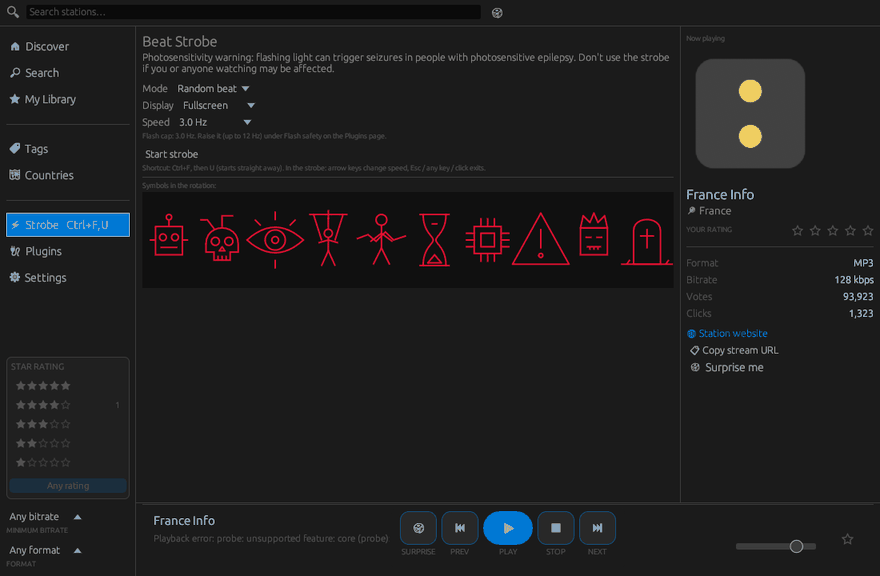
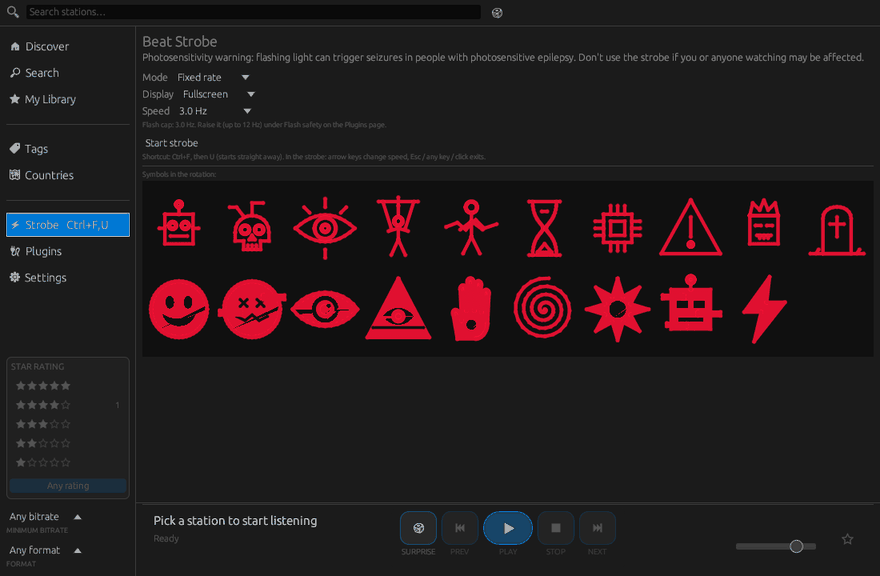
strobe: bold screen-scaled filled symbols held 1.5-3 s, new rave-demo symbols; draw.shape primitive

diff --git a/crates/bwr-plugins/src/draw.rs b/crates/bwr-plugins/src/draw.rs
@@ -61,6 +61,82 @@ pub enum DrawCmd {
     /// coloured by cycling through `colors` from the outside in. Fully
     /// transparent colours leave gaps, so stacked discs make moiré.
     Rings { cx: f32, cy: f32, radius: f32, width: f32, colors: Vec<Rgba> },
+    /// Bold shapes from `draw.shape`: like `Paths`, but the stroke `width`
+    /// is a fraction of the area height (so it scales with the screen) and
+    /// closed subpaths can be filled with `fill`.
+    Shape { cx: f32, cy: f32, paths: Vec<Vec<(f32, f32)>>, width: f32, color: Rgba, fill: Option<Rgba> },
+}
+
+/// Area (height units squared) of a closed polyline, shoelace formula.
+pub fn poly_area(p: &[(f32, f32)]) -> f32 {
+    let n = p.len();
+    if n < 3 {
+        return 0.0;
+    }
+    (0..n).map(|i| { let (a, b) = (p[i], p[(i + 1) % n]); a.0 * b.1 - b.0 * a.1 }).sum::<f32>().abs() / 2.0
+}
+
+/// True if a polyline ends where it starts (a `Z`-closed subpath).
+pub fn is_closed(p: &[(f32, f32)]) -> bool {
+    p.len() > 3 && { let (a, b) = (p[0], p[p.len() - 1]); (a.0 - b.0).abs() < 1e-4 && (a.1 - b.1).abs() < 1e-4 }
+}
+
+fn inside_poly(p: &[(f32, f32)], x: f32, y: f32) -> bool {
+    let mut inside = false;
+    let n = p.len();
+    let mut j = n - 1;
+    for i in 0..n {
+        let (a, b) = (p[i], p[j]);
+        if (a.1 > y) != (b.1 > y) && x < (b.0 - a.0) * (y - a.1) / (b.1 - a.1) + a.0 {
+            inside = !inside;
+        }
+        j = i;
+    }
+    inside
+}
+
+/// Triangulate a simple polygon (ear clipping). Returns index triples.
+pub fn triangulate(poly: &[(f32, f32)]) -> Vec<[usize; 3]> {
+    let mut pts: Vec<usize> = (0..poly.len()).collect();
+    if is_closed(poly) {
+        pts.pop();
+    }
+    // Drop consecutive duplicates.
+    pts.dedup_by(|a, b| { let (p, q) = (poly[*a], poly[*b]); (p.0 - q.0).abs() < 1e-6 && (p.1 - q.1).abs() < 1e-6 });
+    let signed: f32 = (0..pts.len()).map(|i| { let (a, b) = (poly[pts[i]], poly[pts[(i + 1) % pts.len()]]); a.0 * b.1 - b.0 * a.1 }).sum();
+    let ccw = signed > 0.0;
+    let cross = |a: (f32, f32), b: (f32, f32), c: (f32, f32)| (b.0 - a.0) * (c.1 - a.1) - (b.1 - a.1) * (c.0 - a.0);
+    let mut out = Vec::new();
+    let mut guard = 0;
+    while pts.len() > 3 && guard < 10_000 {
+        guard += 1;
+        let n = pts.len();
+        let mut clipped = false;
+        for i in 0..n {
+            let (ia, ib, ic) = (pts[(i + n - 1) % n], pts[i], pts[(i + 1) % n]);
+            let (a, b, c) = (poly[ia], poly[ib], poly[ic]);
+            let cr = cross(a, b, c);
+            if (ccw && cr <= 0.0) || (!ccw && cr >= 0.0) {
+                continue;
+            }
+            let tri = [a, b, c];
+            let blocked = pts.iter().any(|&k| k != ia && k != ib && k != ic && inside_poly(&tri, poly[k].0, poly[k].1));
+            if blocked {
+                continue;
+            }
+            out.push([ia, ib, ic]);
+            pts.remove(i);
+            clipped = true;
+            break;
+        }
+        if !clipped {
+            break; // self-intersecting: fill what we have
+        }
+    }
+    if pts.len() == 3 {
+        out.push([pts[0], pts[1], pts[2]]);
+    }
+    out
 }
 
 /// Max rings in one `draw.rings` call.
@@ -73,6 +149,7 @@ impl DrawCmd {
             DrawCmd::Fill(_) => 1.0,
             DrawCmd::Rect { w, h, .. } => (w.clamp(0.0, 1.0) * h.clamp(0.0, 1.0)).max(0.0),
             DrawCmd::Circle { r, stroke: None, .. } => std::f32::consts::PI * r * r,
+            DrawCmd::Shape { paths, fill: Some(_), .. } => paths.iter().filter(|p| is_closed(p)).map(|p| poly_area(p)).sum(),
             _ => 0.0,
         }
     }
@@ -85,7 +162,8 @@ impl DrawCmd {
             | DrawCmd::Circle { color, .. }
             | DrawCmd::Line { color, .. }
             | DrawCmd::Text { color, .. }
-            | DrawCmd::Paths { color, .. } => color,
+            | DrawCmd::Paths { color, .. }
+            | DrawCmd::Shape { color, .. } => color,
         })
     }
 
@@ -117,6 +195,10 @@ impl DrawCmd {
                 }
                 let l: f32 = colors.iter().map(|c| c.luminance_opaque() * c.0[3] as f32 / 255.0).sum::<f32>() / n / a;
                 Some((l, a))
+            }
+            DrawCmd::Shape { cx, cy, paths, fill: Some(f), .. } => {
+                let (px, py) = ((x - cx) * aspect, y - cy);
+                paths.iter().filter(|p| is_closed(p)).any(|p| inside_poly(p, px, py)).then(|| lum_a(f))
             }
             _ => None,
         }

diff --git a/crates/bwr-plugins/tests/loader.rs b/crates/bwr-plugins/tests/loader.rs
@@ -496,7 +496,7 @@ fn strobe_rings_in_random_beat_mode_under_symbols() {
         if has_rings(&cmds) {
             saw_rings += 1;
             let r = cmds.iter().rposition(|c| matches!(c, DrawCmd::Rings { .. })).unwrap();
-            if let Some(p) = cmds.iter().position(|c| matches!(c, DrawCmd::Paths { .. })) {
+            if let Some(p) = cmds.iter().position(|c| matches!(c, DrawCmd::Shape { .. })) {
                 symbol_above_rings |= p > r;
                 assert!(p > r, "symbols must be drawn over the rings");
             }
@@ -579,4 +579,53 @@ fn rings_api_validates() {
     assert!(r.to_string().contains("too many rings"), "{r}");
     let dir = write_plugin(tmp.path(), "rg3", "\"overlay\"", "fn on_overlay(ctx, draw) { draw.rings(0.5, 0.5, 0.9, 0.02, [\"#ffffff\", \"#00000000\"]); }");
     assert!(check_plugin(&dir).ok());
+}
+
+#[test]
+fn shape_api_and_triangulation() {
+    let tmp = tempfile::tempdir().unwrap();
+    let dir = write_plugin(tmp.path(), "sh1", "\"overlay\"",
+        "fn on_overlay(ctx, draw) { draw.shape(\"M10 10 H90 V90 H10 Z\", 0.5, 0.5, 0.5, 0.03, \"#ff0000\", \"#00ff00\"); draw.shape(\"M10 10 L90 90\", 0.5, 0.5, 0.5, 0.03, \"#ff0000\", \"\"); }");
+    let _ = dir;
+    // Concave L-shape: 6 vertices -> 4 triangles covering its area.
+    let l = vec![(0.0, 0.0), (2.0, 0.0), (2.0, 1.0), (1.0, 1.0), (1.0, 2.0), (0.0, 2.0), (0.0, 0.0)];
+    assert!(is_closed(&l));
+    let tris = triangulate(&l);
+    assert_eq!(tris.len(), 4);
+    let area: f32 = tris.iter().map(|t| poly_area(&[l[t[0]], l[t[1]], l[t[2]]])).sum();
+    assert!((area - poly_area(&l)).abs() < 1e-4, "{area}");
+}
+
+#[test]
+fn strobe_symbols_are_bold_and_stay_up() {
+    // The strobe uses the real clock, so this runs in real time (~5 s).
+    let tmp = tempfile::tempdir().unwrap();
+    let mut host = start_strobe_with(tmp.path(), &[("mode", "Random beat".into())]);
+    let mut beat = AudioFrame { playing: true, ..Default::default() };
+    beat.features.level = 0.5;
+    beat.features.bass = 0.8;
+    beat.features.quiet = false;
+    let (mut changes, mut last, mut frames_with) = (0, String::new(), 0);
+    let start = std::time::Instant::now();
+    let mut next_beat = 0.0;
+    while start.elapsed().as_secs_f64() < 5.0 {
+        let t = start.elapsed().as_secs_f64();
+        beat.features.beat = t >= next_beat;
+        if beat.features.beat { next_beat += 0.25; }
+        host.frame(1.0 / 60.0, &beat);
+        let cmds = host.overlay_commands();
+        let shapes: Vec<_> = cmds.iter().filter_map(|c| match c {
+            DrawCmd::Shape { width, paths, .. } => Some((*width, paths.len())),
+            _ => None,
+        }).collect();
+        std::thread::sleep(std::time::Duration::from_millis(10));
+        if shapes.is_empty() { continue; }
+        frames_with += 1;
+        assert!(shapes.iter().any(|(w, _)| *w >= 0.02), "strokes scale with the screen height");
+        let key = format!("{shapes:?}");
+        if key != last { changes += 1; last = key; }
+    }
+    assert!(frames_with > 50, "{frames_with}");
+    // Held 1.5-3 s each: at most 4 different symbols in 5 s.
+    assert!(changes <= 4, "symbols change too often: {changes}");
 }

diff --git a/crates/bwr-app/src/plugin_bridge.rs b/crates/bwr-app/src/plugin_bridge.rs
@@ -326,6 +326,34 @@ pub fn paint(painter: &egui::Painter, rect: Rect, cmds: &[DrawCmd]) {
                     painter.add(egui::Shape::line(pts, Stroke::new(*width, c32(*color))));
                 }
             }
+            DrawCmd::Shape { cx, cy, paths, width, color, fill } => {
+                let centre = at(*cx, *cy);
+                let to = |(px, py): &(f32, f32)| centre + egui::vec2(px * h, py * h);
+                if let Some(f) = fill.filter(|f| f.0[3] > 0) {
+                    for p in paths.iter().filter(|p| bwr_plugins::is_closed(p)) {
+                        let mut mesh = egui::Mesh::default();
+                        for v in p {
+                            mesh.colored_vertex(to(v), c32(f));
+                        }
+                        for [a, b, c] in bwr_plugins::triangulate(p) {
+                            mesh.add_triangle(a as u32, b as u32, c as u32);
+                        }
+                        painter.add(egui::Shape::mesh(mesh));
+                    }
+                }
+                let w = width * h;
+                if w > 0.0 && color.0[3] > 0 {
+                    let col = c32(*color);
+                    for p in paths {
+                        let pts: Vec<Pos2> = p.iter().map(to).collect();
+                        // Round joins and caps so thick strokes look solid.
+                        for q in &pts {
+                            painter.circle_filled(*q, w / 2.0, col);
+                        }
+                        painter.add(egui::Shape::line(pts, Stroke::new(w, col)));
+                    }
+                }
+            }
         }
     }
 }

diff --git a/crates/bwr-plugins/src/api.rs b/crates/bwr-plugins/src/api.rs
@@ -302,6 +302,24 @@ pub(crate) fn build_engine() -> Engine {
         },
     );
 
+    // draw.shape(path_d, cx, cy, size, width, stroke, fill): bold SVG art.
+    // `width` is a fraction of the area height; `fill` ("" for none) fills
+    // every closed subpath (later subpaths paint over earlier ones).
+    e.register_fn(
+        "shape",
+        |d: &mut Draw, path: Dynamic, cx: Dynamic, cy: Dynamic, size: Dynamic, w: Dynamic, c: Dynamic, f: Dynamic| -> Res<()> {
+            let polys = parse_svg_path(&text_of(&path)).map_err(|e| format!("draw.shape: {e}"))?;
+            let (cx, cy, size) = (num(&cx, "shape")?, num(&cy, "shape")?, num(&size, "shape")?);
+            let paths = polys
+                .into_iter()
+                .map(|p| p.into_iter().map(|(x, y)| ((x - 50.0) / 100.0 * size, (y - 50.0) / 100.0 * size)).collect())
+                .collect();
+            let fs = text_of(&f);
+            let fill = if fs.trim().is_empty() { None } else { Some(color(&f)?) };
+            d.push(DrawCmd::Shape { cx, cy, paths, width: num(&w, "shape")?.clamp(0.0, 0.2), color: color(&c)?, fill })
+        },
+    );
+
     // draw.rings(cx, cy, radius, ring_width, [colours]): concentric rings,
     // one host command however many rings there are.
     e.register_fn(

diff --git a/crates/bwr-plugins/src/lib.rs b/crates/bwr-plugins/src/lib.rs
@@ -21,7 +21,7 @@ use std::path::PathBuf;
 pub use api::Request;
 pub use bundled::{install_bundled, BUNDLED};
 pub use check::{check_plugin, CheckReport};
-pub use draw::{parse_svg_path, DrawCmd, Rgba, MAX_RINGS};
+pub use draw::{is_closed, parse_svg_path, poly_area, triangulate, DrawCmd, Rgba, MAX_RINGS};
 pub use host::{migrate_state, AudioFrame, HostState, OverlayPhase, OverlaySession, Plugin, PluginHost, PluginStatus, StationInfo};
 pub use hotkeys::{parse_chord, ChordMatcher, ChordResult, HotkeySpec, Mods, Step, CHORD_TIMEOUT};
 pub use manifest::{Manifest, PageSpec, Permission, SettingKind, SettingSpec};

diff --git a/crates/bwr-plugins/src/safety.rs b/crates/bwr-plugins/src/safety.rs
@@ -75,6 +75,11 @@ impl FlashLimiter {
     fn darken(cmds: &mut [DrawCmd]) {
         for c in cmds.iter_mut() {
             let large = c.solid_area() >= LARGE_AREA;
+            if let DrawCmd::Shape { fill: Some(f), .. } = c {
+                if large && f.luminance() > 0.02 {
+                    *f = Rgba::BLACK;
+                }
+            }
             if let Some(col) = c.color_mut() {
                 if large && col.luminance() > 0.02 {
                     *col = Rgba::BLACK;

diff --git a/README.md b/README.md
@@ -64,9 +64,10 @@
 <details>
 <summary><b>🌀 Amiga interference rings (Beat Strobe)</b></summary>
 <br>
+<p align="center"><img src="docs/media/strobe-thick-symbol.png" alt="Bold symbol over the interference rings" width="880"></p>
 <p align="center"><img src="docs/media/strobe-rings.png" alt="Interference rings in the Beat Strobe" width="880"></p>
 
-Two black-and-white concentric-ring discs drift on Lissajous paths under the symbols, creating a classic moiré. They are on by default in every mode (Fixed rate and Random beat, fullscreen or in-window, including the Ctrl+F, U hotkey launch); switch them off with the strobe's `rings` setting. The screen goes black during breaks in the track.
+Two black-and-white concentric-ring discs drift on Lissajous paths under the symbols, creating a classic moiré. They are on by default in every mode (Fixed rate and Random beat, fullscreen or in-window, including the Ctrl+F, U hotkey launch); switch them off with the strobe's `rings` setting. Bold, filled symbols in a 90s rave-demo style (smileys, eyes, pyramids, hands, spirals, glitchy robots) stay up for 1.5–3 s with chunky slogans. The screen goes black during breaks in the track.
 </details>
 
 <details>

diff --git a/docs/PLUGIN_GUIDE.md b/docs/PLUGIN_GUIDE.md
@@ -187,6 +187,7 @@ build them from 0..255 ints. Numbers may be ints or floats.
 | `draw.text(x, y, text, color)` / `draw.text(x, y, text, size_px, color)` | text, top-left at (x, y) |
 | `draw.text_center(x, y, text, size_px, color)` | text centred on (x, y) |
 | `draw.svg(path_d, cx, cy, size, width_px, color)` | SVG path line art |
+| `draw.shape(path_d, cx, cy, size, width, stroke, fill)` | bold SVG art: `width` is a fraction of the screen **height** (e.g. `0.025`), so strokes scale with the screen; `fill` (`""` for none) fills every closed (`Z`) subpath, later subpaths paint over earlier ones (use the background colour to cut holes) |
 | `draw.rings(cx, cy, radius, ring_width, [colors])` | a disc of concentric rings centred on (cx, cy); `radius` and `ring_width` are fractions of the height; colours cycle from the outside in; `"#00000000"` (transparent) leaves a gap. One command however many rings (max 400 per call) |
 
 `draw.svg` takes SVG path data (the `d` attribute) in a **100x100 viewBox**,
